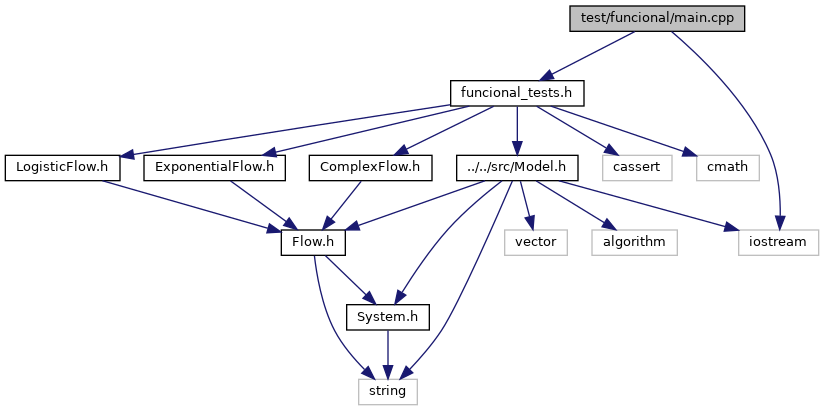
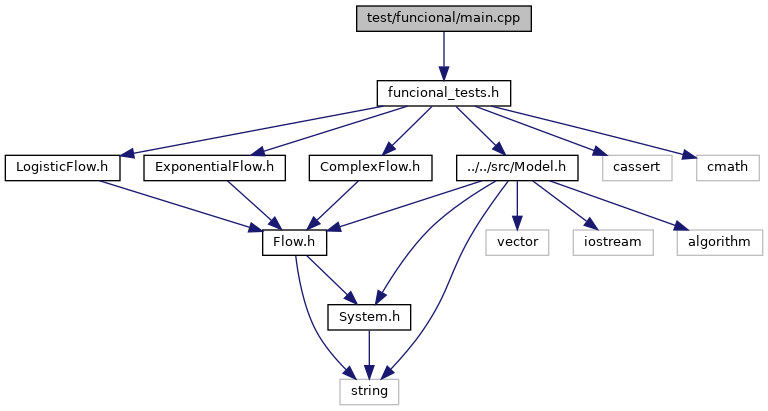
doc: atualização da pasta test e Doxyfile

diff --git a/doc/html/test_2funcional_2main_8cpp.html b/doc/html/test_2funcional_2main_8cpp.html
@@ -73,26 +73,25 @@ $(function() {
 </div><!--header-->
 <div class="contents">
 <div class="textblock"><code>#include &quot;<a class="el" href="funcional__tests_8h_source.html">funcional_tests.h</a>&quot;</code><br />
-<code>#include &lt;iostream&gt;</code><br />
 </div><div class="textblock"><div class="dynheader">
 Include dependency graph for main.cpp:</div>
 <div class="dyncontent">
 <div class="center"><img src="test_2funcional_2main_8cpp__incl.png" border="0" usemap="#atest_2funcional_2main_8cpp" alt=""/></div>
 <map name="atest_2funcional_2main_8cpp" id="atest_2funcional_2main_8cpp">
-<area shape="rect" title=" " alt="" coords="570,5,745,32"/>
-<area shape="rect" href="funcional__tests_8h.html" title=" " alt="" coords="451,80,584,107"/>
-<area shape="rect" title=" " alt="" coords="739,229,819,256"/>
+<area shape="rect" title=" " alt="" coords="357,5,531,32"/>
+<area shape="rect" href="funcional__tests_8h.html" title=" " alt="" coords="377,80,511,107"/>
 <area shape="rect" href="Model_8h.html" title=" " alt="" coords="457,155,578,181"/>
 <area shape="rect" href="LogisticFlow_8h.html" title=" " alt="" coords="5,155,120,181"/>
 <area shape="rect" href="ExponentialFlow_8h.html" title=" " alt="" coords="144,155,285,181"/>
 <area shape="rect" href="ComplexFlow_8h.html" title=" " alt="" coords="309,155,432,181"/>
 <area shape="rect" title=" " alt="" coords="603,155,672,181"/>
 <area shape="rect" title=" " alt="" coords="697,155,759,181"/>
-<area shape="rect" href="System_8h.html" title=" " alt="" coords="347,304,429,331"/>
-<area shape="rect" title=" " alt="" coords="359,379,417,405"/>
-<area shape="rect" href="Flow_8h.html" title=" " alt="" coords="281,229,345,256"/>
-<area shape="rect" title=" " alt="" coords="505,229,567,256"/>
-<area shape="rect" title=" " alt="" coords="592,229,677,256"/>
+<area shape="rect" href="System_8h.html" title=" " alt="" coords="328,304,411,331"/>
+<area shape="rect" title=" " alt="" coords="340,379,399,405"/>
+<area shape="rect" href="Flow_8h.html" title=" " alt="" coords="263,229,327,256"/>
+<area shape="rect" title=" " alt="" coords="486,229,549,256"/>
+<area shape="rect" title=" " alt="" coords="573,229,653,256"/>
+<area shape="rect" title=" " alt="" coords="677,229,763,256"/>
 </map>
 </div>
 </div>
@@ -119,22 +118,22 @@ Functions</h2></td></tr>
       </table>
 </div><div class="memdoc">
 
-<p class="definition">Definition at line <a class="el" href="test_2funcional_2main_8cpp_source.html#l00004">4</a> of file <a class="el" href="test_2funcional_2main_8cpp_source.html">main.cpp</a>.</p>
-<div class="fragment"><div class="line"><a name="l00004"></a><span class="lineno">    4</span>&#160;          {</div>
-<div class="line"><a name="l00005"></a><span class="lineno">    5</span>&#160;    std::cout &lt;&lt;<span class="stringliteral">&quot;INICIANDO TESTES FUNCIONAIS&quot;</span> &lt;&lt; std::endl;</div>
-<div class="line"><a name="l00006"></a><span class="lineno">    6</span>&#160; </div>
-<div class="line"><a name="l00007"></a><span class="lineno">    7</span>&#160;    <span class="comment">//chamar função teste exponencial</span></div>
-<div class="line"><a name="l00008"></a><span class="lineno">    8</span>&#160;    <a class="code" href="funcional__tests_8cpp.html#a2c448ffaffdff4b03c825a01dffa6f27">exponentialFuncionalTest</a>();</div>
-<div class="line"><a name="l00009"></a><span class="lineno">    9</span>&#160; </div>
-<div class="line"><a name="l00010"></a><span class="lineno">   10</span>&#160;    <span class="comment">//chamar função teste logistico</span></div>
-<div class="line"><a name="l00011"></a><span class="lineno">   11</span>&#160;    <a class="code" href="funcional__tests_8cpp.html#a60914db64bde71b56d69320797266c29">logisticalFuncionalTest</a>();</div>
-<div class="line"><a name="l00012"></a><span class="lineno">   12</span>&#160; </div>
-<div class="line"><a name="l00013"></a><span class="lineno">   13</span>&#160;    <span class="comment">//Chamr função complexa</span></div>
-<div class="line"><a name="l00014"></a><span class="lineno">   14</span>&#160;    <a class="code" href="funcional__tests_8cpp.html#a943dfe0c597a01c9760c140715fed527">complexFuncionalTest</a>();</div>
-<div class="line"><a name="l00015"></a><span class="lineno">   15</span>&#160; </div>
-<div class="line"><a name="l00016"></a><span class="lineno">   16</span>&#160;    std::cout &lt;&lt;<span class="stringliteral">&quot;TODOS OS TESTES PASSARAM!!&quot;</span> &lt;&lt; std::endl;</div>
-<div class="line"><a name="l00017"></a><span class="lineno">   17</span>&#160;    <span class="keywordflow">return</span> 0;</div>
-<div class="line"><a name="l00018"></a><span class="lineno">   18</span>&#160;}</div>
+<p class="definition">Definition at line <a class="el" href="test_2funcional_2main_8cpp_source.html#l00003">3</a> of file <a class="el" href="test_2funcional_2main_8cpp_source.html">main.cpp</a>.</p>
+<div class="fragment"><div class="line"><a name="l00003"></a><span class="lineno">    3</span>&#160;          {</div>
+<div class="line"><a name="l00004"></a><span class="lineno">    4</span>&#160;    std::cout &lt;&lt;<span class="stringliteral">&quot;INICIANDO TESTES FUNCIONAIS&quot;</span> &lt;&lt; std::endl;</div>
+<div class="line"><a name="l00005"></a><span class="lineno">    5</span>&#160; </div>
+<div class="line"><a name="l00006"></a><span class="lineno">    6</span>&#160;    <span class="comment">//chamar função teste exponencial</span></div>
+<div class="line"><a name="l00007"></a><span class="lineno">    7</span>&#160;    <a class="code" href="funcional__tests_8cpp.html#a2c448ffaffdff4b03c825a01dffa6f27">exponentialFuncionalTest</a>();</div>
+<div class="line"><a name="l00008"></a><span class="lineno">    8</span>&#160; </div>
+<div class="line"><a name="l00009"></a><span class="lineno">    9</span>&#160;    <span class="comment">//chamar função teste logistico</span></div>
+<div class="line"><a name="l00010"></a><span class="lineno">   10</span>&#160;    <a class="code" href="funcional__tests_8cpp.html#a60914db64bde71b56d69320797266c29">logisticalFuncionalTest</a>();</div>
+<div class="line"><a name="l00011"></a><span class="lineno">   11</span>&#160; </div>
+<div class="line"><a name="l00012"></a><span class="lineno">   12</span>&#160;    <span class="comment">//Chamr função complexa</span></div>
+<div class="line"><a name="l00013"></a><span class="lineno">   13</span>&#160;    <a class="code" href="funcional__tests_8cpp.html#a943dfe0c597a01c9760c140715fed527">complexFuncionalTest</a>();</div>
+<div class="line"><a name="l00014"></a><span class="lineno">   14</span>&#160; </div>
+<div class="line"><a name="l00015"></a><span class="lineno">   15</span>&#160;    std::cout &lt;&lt;<span class="stringliteral">&quot;TODOS OS TESTES PASSARAM!!&quot;</span> &lt;&lt; std::endl;</div>
+<div class="line"><a name="l00016"></a><span class="lineno">   16</span>&#160;    <span class="keywordflow">return</span> 0;</div>
+<div class="line"><a name="l00017"></a><span class="lineno">   17</span>&#160;}</div>
 <div class="ttc" id="afuncional__tests_8cpp_html_a2c448ffaffdff4b03c825a01dffa6f27"><div class="ttname"><a href="funcional__tests_8cpp.html#a2c448ffaffdff4b03c825a01dffa6f27">exponentialFuncionalTest</a></div><div class="ttdeci">void exponentialFuncionalTest()</div><div class="ttdoc">Functional tests header.</div><div class="ttdef"><b>Definition:</b> <a href="funcional__tests_8cpp_source.html#l00003">funcional_tests.cpp:3</a></div></div>
 <div class="ttc" id="afuncional__tests_8cpp_html_a60914db64bde71b56d69320797266c29"><div class="ttname"><a href="funcional__tests_8cpp.html#a60914db64bde71b56d69320797266c29">logisticalFuncionalTest</a></div><div class="ttdeci">void logisticalFuncionalTest()</div><div class="ttdef"><b>Definition:</b> <a href="funcional__tests_8cpp_source.html#l00022">funcional_tests.cpp:22</a></div></div>
 <div class="ttc" id="afuncional__tests_8cpp_html_a943dfe0c597a01c9760c140715fed527"><div class="ttname"><a href="funcional__tests_8cpp.html#a943dfe0c597a01c9760c140715fed527">complexFuncionalTest</a></div><div class="ttdeci">void complexFuncionalTest()</div><div class="ttdef"><b>Definition:</b> <a href="funcional__tests_8cpp_source.html#l00043">funcional_tests.cpp:43</a></div></div>

diff --git a/doc/html/test_2funcional_2main_8cpp_source.html b/doc/html/test_2funcional_2main_8cpp_source.html
@@ -71,28 +71,27 @@ $(function() {
 </div><!--header-->
 <div class="contents">
 <a href="test_2funcional_2main_8cpp.html">Go to the documentation of this file.</a><div class="fragment"><div class="line"><a name="l00001"></a><span class="lineno">    1</span>&#160;<span class="preprocessor">#include &quot;<a class="code" href="funcional__tests_8h.html">funcional_tests.h</a>&quot;</span></div>
-<div class="line"><a name="l00002"></a><span class="lineno">    2</span>&#160;<span class="preprocessor">#include&lt;iostream&gt;</span></div>
-<div class="line"><a name="l00003"></a><span class="lineno">    3</span>&#160; </div>
-<div class="line"><a name="l00004"></a><span class="lineno"><a class="line" href="test_2funcional_2main_8cpp.html#ae66f6b31b5ad750f1fe042a706a4e3d4">    4</a></span>&#160;<span class="keywordtype">int</span> <a class="code" href="test_2funcional_2main_8cpp.html#ae66f6b31b5ad750f1fe042a706a4e3d4">main</a>(){</div>
-<div class="line"><a name="l00005"></a><span class="lineno">    5</span>&#160;    std::cout &lt;&lt;<span class="stringliteral">&quot;INICIANDO TESTES FUNCIONAIS&quot;</span> &lt;&lt; std::endl;</div>
-<div class="line"><a name="l00006"></a><span class="lineno">    6</span>&#160; </div>
-<div class="line"><a name="l00007"></a><span class="lineno">    7</span>&#160;    <span class="comment">//chamar função teste exponencial</span></div>
-<div class="line"><a name="l00008"></a><span class="lineno">    8</span>&#160;    <a class="code" href="funcional__tests_8cpp.html#a2c448ffaffdff4b03c825a01dffa6f27">exponentialFuncionalTest</a>();</div>
-<div class="line"><a name="l00009"></a><span class="lineno">    9</span>&#160; </div>
-<div class="line"><a name="l00010"></a><span class="lineno">   10</span>&#160;    <span class="comment">//chamar função teste logistico</span></div>
-<div class="line"><a name="l00011"></a><span class="lineno">   11</span>&#160;    <a class="code" href="funcional__tests_8cpp.html#a60914db64bde71b56d69320797266c29">logisticalFuncionalTest</a>();</div>
-<div class="line"><a name="l00012"></a><span class="lineno">   12</span>&#160; </div>
-<div class="line"><a name="l00013"></a><span class="lineno">   13</span>&#160;    <span class="comment">//Chamr função complexa</span></div>
-<div class="line"><a name="l00014"></a><span class="lineno">   14</span>&#160;    <a class="code" href="funcional__tests_8cpp.html#a943dfe0c597a01c9760c140715fed527">complexFuncionalTest</a>();</div>
-<div class="line"><a name="l00015"></a><span class="lineno">   15</span>&#160; </div>
-<div class="line"><a name="l00016"></a><span class="lineno">   16</span>&#160;    std::cout &lt;&lt;<span class="stringliteral">&quot;TODOS OS TESTES PASSARAM!!&quot;</span> &lt;&lt; std::endl;</div>
-<div class="line"><a name="l00017"></a><span class="lineno">   17</span>&#160;    <span class="keywordflow">return</span> 0;</div>
-<div class="line"><a name="l00018"></a><span class="lineno">   18</span>&#160;}</div>
+<div class="line"><a name="l00002"></a><span class="lineno">    2</span>&#160; </div>
+<div class="line"><a name="l00003"></a><span class="lineno"><a class="line" href="test_2funcional_2main_8cpp.html#ae66f6b31b5ad750f1fe042a706a4e3d4">    3</a></span>&#160;<span class="keywordtype">int</span> <a class="code" href="test_2funcional_2main_8cpp.html#ae66f6b31b5ad750f1fe042a706a4e3d4">main</a>(){</div>
+<div class="line"><a name="l00004"></a><span class="lineno">    4</span>&#160;    std::cout &lt;&lt;<span class="stringliteral">&quot;INICIANDO TESTES FUNCIONAIS&quot;</span> &lt;&lt; std::endl;</div>
+<div class="line"><a name="l00005"></a><span class="lineno">    5</span>&#160; </div>
+<div class="line"><a name="l00006"></a><span class="lineno">    6</span>&#160;    <span class="comment">//chamar função teste exponencial</span></div>
+<div class="line"><a name="l00007"></a><span class="lineno">    7</span>&#160;    <a class="code" href="funcional__tests_8cpp.html#a2c448ffaffdff4b03c825a01dffa6f27">exponentialFuncionalTest</a>();</div>
+<div class="line"><a name="l00008"></a><span class="lineno">    8</span>&#160; </div>
+<div class="line"><a name="l00009"></a><span class="lineno">    9</span>&#160;    <span class="comment">//chamar função teste logistico</span></div>
+<div class="line"><a name="l00010"></a><span class="lineno">   10</span>&#160;    <a class="code" href="funcional__tests_8cpp.html#a60914db64bde71b56d69320797266c29">logisticalFuncionalTest</a>();</div>
+<div class="line"><a name="l00011"></a><span class="lineno">   11</span>&#160; </div>
+<div class="line"><a name="l00012"></a><span class="lineno">   12</span>&#160;    <span class="comment">//Chamr função complexa</span></div>
+<div class="line"><a name="l00013"></a><span class="lineno">   13</span>&#160;    <a class="code" href="funcional__tests_8cpp.html#a943dfe0c597a01c9760c140715fed527">complexFuncionalTest</a>();</div>
+<div class="line"><a name="l00014"></a><span class="lineno">   14</span>&#160; </div>
+<div class="line"><a name="l00015"></a><span class="lineno">   15</span>&#160;    std::cout &lt;&lt;<span class="stringliteral">&quot;TODOS OS TESTES PASSARAM!!&quot;</span> &lt;&lt; std::endl;</div>
+<div class="line"><a name="l00016"></a><span class="lineno">   16</span>&#160;    <span class="keywordflow">return</span> 0;</div>
+<div class="line"><a name="l00017"></a><span class="lineno">   17</span>&#160;}</div>
 <div class="ttc" id="afuncional__tests_8cpp_html_a2c448ffaffdff4b03c825a01dffa6f27"><div class="ttname"><a href="funcional__tests_8cpp.html#a2c448ffaffdff4b03c825a01dffa6f27">exponentialFuncionalTest</a></div><div class="ttdeci">void exponentialFuncionalTest()</div><div class="ttdoc">Functional tests header.</div><div class="ttdef"><b>Definition:</b> <a href="funcional__tests_8cpp_source.html#l00003">funcional_tests.cpp:3</a></div></div>
 <div class="ttc" id="afuncional__tests_8cpp_html_a60914db64bde71b56d69320797266c29"><div class="ttname"><a href="funcional__tests_8cpp.html#a60914db64bde71b56d69320797266c29">logisticalFuncionalTest</a></div><div class="ttdeci">void logisticalFuncionalTest()</div><div class="ttdef"><b>Definition:</b> <a href="funcional__tests_8cpp_source.html#l00022">funcional_tests.cpp:22</a></div></div>
 <div class="ttc" id="afuncional__tests_8cpp_html_a943dfe0c597a01c9760c140715fed527"><div class="ttname"><a href="funcional__tests_8cpp.html#a943dfe0c597a01c9760c140715fed527">complexFuncionalTest</a></div><div class="ttdeci">void complexFuncionalTest()</div><div class="ttdef"><b>Definition:</b> <a href="funcional__tests_8cpp_source.html#l00043">funcional_tests.cpp:43</a></div></div>
 <div class="ttc" id="afuncional__tests_8h_html"><div class="ttname"><a href="funcional__tests_8h.html">funcional_tests.h</a></div></div>
-<div class="ttc" id="atest_2funcional_2main_8cpp_html_ae66f6b31b5ad750f1fe042a706a4e3d4"><div class="ttname"><a href="test_2funcional_2main_8cpp.html#ae66f6b31b5ad750f1fe042a706a4e3d4">main</a></div><div class="ttdeci">int main()</div><div class="ttdef"><b>Definition:</b> <a href="test_2funcional_2main_8cpp_source.html#l00004">main.cpp:4</a></div></div>
+<div class="ttc" id="atest_2funcional_2main_8cpp_html_ae66f6b31b5ad750f1fe042a706a4e3d4"><div class="ttname"><a href="test_2funcional_2main_8cpp.html#ae66f6b31b5ad750f1fe042a706a4e3d4">main</a></div><div class="ttdeci">int main()</div><div class="ttdef"><b>Definition:</b> <a href="test_2funcional_2main_8cpp_source.html#l00003">main.cpp:3</a></div></div>
 </div><!-- fragment --></div><!-- contents -->
 <!-- start footer part -->
 <hr class="footer"/><address class="footer"><small>

diff --git a/doc/html/funcional__tests_8h_source.html b/doc/html/funcional__tests_8h_source.html
@@ -72,24 +72,23 @@ $(function() {
 <div class="contents">
 <a href="funcional__tests_8h.html">Go to the documentation of this file.</a><div class="fragment"><div class="line"><a name="l00001"></a><span class="lineno">    1</span>&#160;<span class="preprocessor">#ifndef FUNCIONAL_TESTS_H</span></div>
 <div class="line"><a name="l00002"></a><span class="lineno">    2</span>&#160;<span class="preprocessor">#define FUNCIONAL_TESTS_H</span></div>
-<div class="line"><a name="l00003"></a><span class="lineno">    3</span>&#160; </div>
-<div class="line"><a name="l00004"></a><span class="lineno">    4</span>&#160;<span class="preprocessor">#include &quot;../../src/Model.h&quot;</span></div>
-<div class="line"><a name="l00005"></a><span class="lineno">    5</span>&#160;<span class="preprocessor">#include &quot;<a class="code" href="LogisticFlow_8h.html">LogisticFlow.h</a>&quot;</span></div>
-<div class="line"><a name="l00006"></a><span class="lineno">    6</span>&#160;<span class="preprocessor">#include &quot;<a class="code" href="ExponentialFlow_8h.html">ExponentialFlow.h</a>&quot;</span></div>
-<div class="line"><a name="l00007"></a><span class="lineno">    7</span>&#160;<span class="preprocessor">#include &quot;<a class="code" href="ComplexFlow_8h.html">ComplexFlow.h</a>&quot;</span></div>
-<div class="line"><a name="l00008"></a><span class="lineno">    8</span>&#160; </div>
-<div class="line"><a name="l00009"></a><span class="lineno">    9</span>&#160;<span class="preprocessor">#include&lt;cassert&gt;</span> <span class="comment">//para a função assert</span></div>
-<div class="line"><a name="l00010"></a><span class="lineno">   10</span>&#160;<span class="preprocessor">#include&lt;cmath&gt;</span> <span class="comment">//Para a função fabs()</span></div>
-<div class="line"><a name="l00011"></a><span class="lineno">   11</span>&#160; </div>
-<div class="line"><a name="l00013"></a><span class="lineno">   13</span>&#160; </div>
-<div class="line"><a name="l00019"></a><span class="lineno">   19</span>&#160;<span class="comment">//assinatura das funções:</span></div>
-<div class="line"><a name="l00023"></a><span class="lineno">   23</span>&#160;<span class="comment"></span><span class="keywordtype">void</span> <a class="code" href="funcional__tests_8h.html#a2c448ffaffdff4b03c825a01dffa6f27">exponentialFuncionalTest</a>();</div>
-<div class="line"><a name="l00024"></a><span class="lineno">   24</span>&#160; </div>
-<div class="line"><a name="l00028"></a><span class="lineno">   28</span>&#160;<span class="keywordtype">void</span> <a class="code" href="funcional__tests_8h.html#a60914db64bde71b56d69320797266c29">logisticalFuncionalTest</a>();</div>
-<div class="line"><a name="l00029"></a><span class="lineno">   29</span>&#160; </div>
-<div class="line"><a name="l00033"></a><span class="lineno">   33</span>&#160;<span class="keywordtype">void</span> <a class="code" href="funcional__tests_8h.html#a943dfe0c597a01c9760c140715fed527">complexFuncionalTest</a>();</div>
-<div class="line"><a name="l00034"></a><span class="lineno">   34</span>&#160; </div>
-<div class="line"><a name="l00035"></a><span class="lineno">   35</span>&#160;<span class="preprocessor">#endif</span></div>
+<div class="line"><a name="l00003"></a><span class="lineno">    3</span>&#160;<span class="preprocessor">#include &quot;../../src/Model.h&quot;</span></div>
+<div class="line"><a name="l00004"></a><span class="lineno">    4</span>&#160;<span class="preprocessor">#include &quot;<a class="code" href="LogisticFlow_8h.html">LogisticFlow.h</a>&quot;</span></div>
+<div class="line"><a name="l00005"></a><span class="lineno">    5</span>&#160;<span class="preprocessor">#include &quot;<a class="code" href="ExponentialFlow_8h.html">ExponentialFlow.h</a>&quot;</span></div>
+<div class="line"><a name="l00006"></a><span class="lineno">    6</span>&#160;<span class="preprocessor">#include &quot;<a class="code" href="ComplexFlow_8h.html">ComplexFlow.h</a>&quot;</span></div>
+<div class="line"><a name="l00007"></a><span class="lineno">    7</span>&#160; </div>
+<div class="line"><a name="l00008"></a><span class="lineno">    8</span>&#160;<span class="preprocessor">#include&lt;cassert&gt;</span> <span class="comment">//para a função assert</span></div>
+<div class="line"><a name="l00009"></a><span class="lineno">    9</span>&#160;<span class="preprocessor">#include&lt;cmath&gt;</span> <span class="comment">//Para a função fabs()</span></div>
+<div class="line"><a name="l00010"></a><span class="lineno">   10</span>&#160; </div>
+<div class="line"><a name="l00012"></a><span class="lineno">   12</span>&#160; </div>
+<div class="line"><a name="l00018"></a><span class="lineno">   18</span>&#160;<span class="comment">//assinatura das funções:</span></div>
+<div class="line"><a name="l00022"></a><span class="lineno">   22</span>&#160;<span class="comment"></span><span class="keywordtype">void</span> <a class="code" href="funcional__tests_8h.html#a2c448ffaffdff4b03c825a01dffa6f27">exponentialFuncionalTest</a>();</div>
+<div class="line"><a name="l00023"></a><span class="lineno">   23</span>&#160; </div>
+<div class="line"><a name="l00027"></a><span class="lineno">   27</span>&#160;<span class="keywordtype">void</span> <a class="code" href="funcional__tests_8h.html#a60914db64bde71b56d69320797266c29">logisticalFuncionalTest</a>();</div>
+<div class="line"><a name="l00028"></a><span class="lineno">   28</span>&#160; </div>
+<div class="line"><a name="l00032"></a><span class="lineno">   32</span>&#160;<span class="keywordtype">void</span> <a class="code" href="funcional__tests_8h.html#a943dfe0c597a01c9760c140715fed527">complexFuncionalTest</a>();</div>
+<div class="line"><a name="l00033"></a><span class="lineno">   33</span>&#160; </div>
+<div class="line"><a name="l00034"></a><span class="lineno">   34</span>&#160;<span class="preprocessor">#endif</span></div>
 <div class="ttc" id="aComplexFlow_8h_html"><div class="ttname"><a href="ComplexFlow_8h.html">ComplexFlow.h</a></div></div>
 <div class="ttc" id="aExponentialFlow_8h_html"><div class="ttname"><a href="ExponentialFlow_8h.html">ExponentialFlow.h</a></div></div>
 <div class="ttc" id="aLogisticFlow_8h_html"><div class="ttname"><a href="LogisticFlow_8h.html">LogisticFlow.h</a></div></div>

diff --git a/doc/latex/test_2funcional_2main_8cpp.tex b/doc/latex/test_2funcional_2main_8cpp.tex
@@ -1,9 +1,7 @@
 \hypertarget{test_2funcional_2main_8cpp}{}\doxysection{test/funcional/main.cpp File Reference}
 \label{test_2funcional_2main_8cpp}\index{test/funcional/main.cpp@{test/funcional/main.cpp}}
 {\ttfamily \#include \char`\"{}funcional\+\_\+tests.\+h\char`\"{}}\newline
-{\ttfamily \#include $<$iostream$>$}\newline
-Include dependency graph for main.\+cpp\+:
-\nopagebreak
+Include dependency graph for main.\+cpp\+:\nopagebreak
 \begin{figure}[H]
 \begin{center}
 \leavevmode
@@ -26,24 +24,24 @@ int \mbox{\hyperlink{test_2funcional_2main_8cpp_ae66f6b31b5ad750f1fe042a706a4e3d
 
 
 
-Definition at line 4 of file main.\+cpp.
+Definition at line 3 of file main.\+cpp.
 
 
 \begin{DoxyCode}{0}
-\DoxyCodeLine{4           \{}
-\DoxyCodeLine{5     std::cout <<\textcolor{stringliteral}{"{}INICIANDO TESTES FUNCIONAIS"{}} << std::endl;}
-\DoxyCodeLine{6 }
-\DoxyCodeLine{7     \textcolor{comment}{//chamar função teste exponencial}}
-\DoxyCodeLine{8     \mbox{\hyperlink{funcional__tests_8cpp_a2c448ffaffdff4b03c825a01dffa6f27}{exponentialFuncionalTest}}();}
-\DoxyCodeLine{9 }
-\DoxyCodeLine{10     \textcolor{comment}{//chamar função teste logistico}}
-\DoxyCodeLine{11     \mbox{\hyperlink{funcional__tests_8cpp_a60914db64bde71b56d69320797266c29}{logisticalFuncionalTest}}();}
-\DoxyCodeLine{12 }
-\DoxyCodeLine{13     \textcolor{comment}{//Chamr função complexa}}
-\DoxyCodeLine{14     \mbox{\hyperlink{funcional__tests_8cpp_a943dfe0c597a01c9760c140715fed527}{complexFuncionalTest}}();}
-\DoxyCodeLine{15 }
-\DoxyCodeLine{16     std::cout <<\textcolor{stringliteral}{"{}TODOS OS TESTES PASSARAM!!"{}} << std::endl;}
-\DoxyCodeLine{17     \textcolor{keywordflow}{return} 0;}
-\DoxyCodeLine{18 \}}
+\DoxyCodeLine{3           \{}
+\DoxyCodeLine{4     std::cout <<\textcolor{stringliteral}{"{}INICIANDO TESTES FUNCIONAIS"{}} << std::endl;}
+\DoxyCodeLine{5 }
+\DoxyCodeLine{6     \textcolor{comment}{//chamar função teste exponencial}}
+\DoxyCodeLine{7     \mbox{\hyperlink{funcional__tests_8cpp_a2c448ffaffdff4b03c825a01dffa6f27}{exponentialFuncionalTest}}();}
+\DoxyCodeLine{8 }
+\DoxyCodeLine{9     \textcolor{comment}{//chamar função teste logistico}}
+\DoxyCodeLine{10     \mbox{\hyperlink{funcional__tests_8cpp_a60914db64bde71b56d69320797266c29}{logisticalFuncionalTest}}();}
+\DoxyCodeLine{11 }
+\DoxyCodeLine{12     \textcolor{comment}{//Chamr função complexa}}
+\DoxyCodeLine{13     \mbox{\hyperlink{funcional__tests_8cpp_a943dfe0c597a01c9760c140715fed527}{complexFuncionalTest}}();}
+\DoxyCodeLine{14 }
+\DoxyCodeLine{15     std::cout <<\textcolor{stringliteral}{"{}TODOS OS TESTES PASSARAM!!"{}} << std::endl;}
+\DoxyCodeLine{16     \textcolor{keywordflow}{return} 0;}
+\DoxyCodeLine{17 \}}
 
 \end{DoxyCode}

diff --git a/doc/latex/funcional__tests_8cpp.tex b/doc/latex/funcional__tests_8cpp.tex
@@ -1,8 +1,7 @@
 \hypertarget{funcional__tests_8cpp}{}\doxysection{test/funcional/funcional\+\_\+tests.cpp File Reference}
 \label{funcional__tests_8cpp}\index{test/funcional/funcional\_tests.cpp@{test/funcional/funcional\_tests.cpp}}
 {\ttfamily \#include \char`\"{}funcional\+\_\+tests.\+h\char`\"{}}\newline
-Include dependency graph for funcional\+\_\+tests.\+cpp\+:
-\nopagebreak
+Include dependency graph for funcional\+\_\+tests.\+cpp\+:\nopagebreak
 \begin{figure}[H]
 \begin{center}
 \leavevmode

diff --git a/doc/latex/dir_fbd0e864acb36f363f615ea3aef4272b.tex b/doc/latex/dir_fbd0e864acb36f363f615ea3aef4272b.tex
@@ -1,7 +1,6 @@
 \hypertarget{dir_fbd0e864acb36f363f615ea3aef4272b}{}\doxysection{test/funcional Directory Reference}
 \label{dir_fbd0e864acb36f363f615ea3aef4272b}\index{test/funcional Directory Reference@{test/funcional Directory Reference}}
-Directory dependency graph for funcional\+:
-\nopagebreak
+Directory dependency graph for funcional\+:\nopagebreak
 \begin{figure}[H]
 \begin{center}
 \leavevmode

diff --git a/doc/latex/System_8h.tex b/doc/latex/System_8h.tex
@@ -8,8 +8,7 @@ Include dependency graph for System.\+h\+:\nopagebreak
 \includegraphics[width=160pt]{System_8h__incl}
 \end{center}
 \end{figure}
-This graph shows which files directly or indirectly include this file\+:
-\nopagebreak
+This graph shows which files directly or indirectly include this file\+:\nopagebreak
 \begin{figure}[H]
 \begin{center}
 \leavevmode

diff --git a/doc/latex/dir_13e138d54eb8818da29c3992edef070a.tex b/doc/latex/dir_13e138d54eb8818da29c3992edef070a.tex
@@ -1,7 +1,6 @@
 \hypertarget{dir_13e138d54eb8818da29c3992edef070a}{}\doxysection{test Directory Reference}
 \label{dir_13e138d54eb8818da29c3992edef070a}\index{test Directory Reference@{test Directory Reference}}
-Directory dependency graph for test\+:
-\nopagebreak
+Directory dependency graph for test\+:\nopagebreak
 \begin{figure}[H]
 \begin{center}
 \leavevmode

diff --git a/doc/latex/Flow_8h.tex b/doc/latex/Flow_8h.tex
@@ -9,8 +9,7 @@ Include dependency graph for Flow.\+h\+:\nopagebreak
 \includegraphics[width=173pt]{Flow_8h__incl}
 \end{center}
 \end{figure}
-This graph shows which files directly or indirectly include this file\+:
-\nopagebreak
+This graph shows which files directly or indirectly include this file\+:\nopagebreak
 \begin{figure}[H]
 \begin{center}
 \leavevmode

diff --git a/doc/latex/funcional__tests_8h.tex b/doc/latex/funcional__tests_8h.tex
@@ -6,8 +6,7 @@
 {\ttfamily \#include \char`\"{}Complex\+Flow.\+h\char`\"{}}\newline
 {\ttfamily \#include $<$cassert$>$}\newline
 {\ttfamily \#include $<$cmath$>$}\newline
-Include dependency graph for funcional\+\_\+tests.\+h\+:
-\nopagebreak
+Include dependency graph for funcional\+\_\+tests.\+h\+:\nopagebreak
 \begin{figure}[H]
 \begin{center}
 \leavevmode

diff --git a/test/funcional/funcional_tests.h b/test/funcional/funcional_tests.h
@@ -1,6 +1,5 @@
 #ifndef FUNCIONAL_TESTS_H
 #define FUNCIONAL_TESTS_H
-
 #include "../../src/Model.h"
 #include "LogisticFlow.h"
 #include "ExponentialFlow.h"

diff --git a/test/funcional/main.cpp b/test/funcional/main.cpp
@@ -1,5 +1,4 @@
 #include "funcional_tests.h"
-#include<iostream>
 
 int main(){
     std::cout <<"INICIANDO TESTES FUNCIONAIS" << std::endl;
